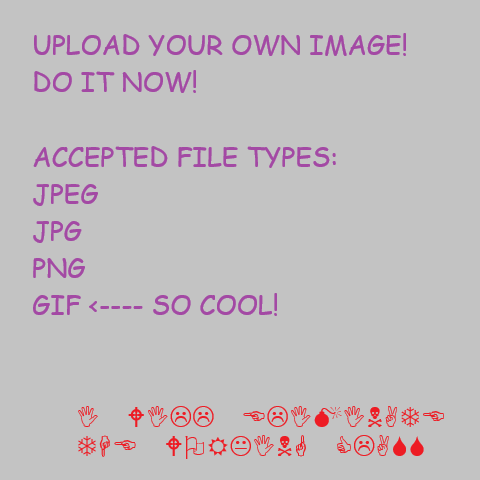
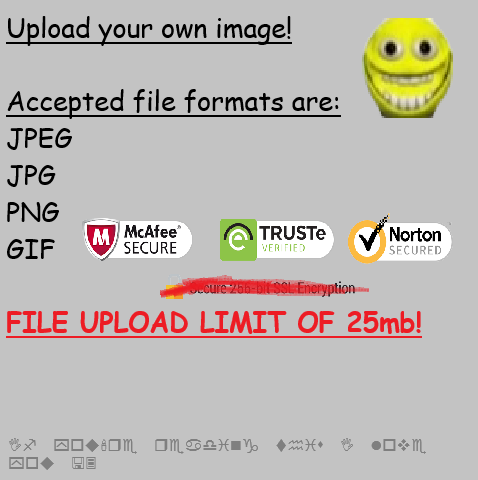
BUG: Fixed file upload limit

diff --git a/src/server/binder.js b/src/server/binder.js
@@ -23,7 +23,7 @@ var storage = multer.diskStorage({
 })
 const upload = multer({
     storage: storage,
-    limits: { fileSize: 10000000 } // 1MB file size limit
+    limits: { fileSize: 26214400 } // 1MB file size limit
 }).single('profileImage'); // 'myFile' is the name attribute of the file input field
 
 function checkFileType(file, cb) {
